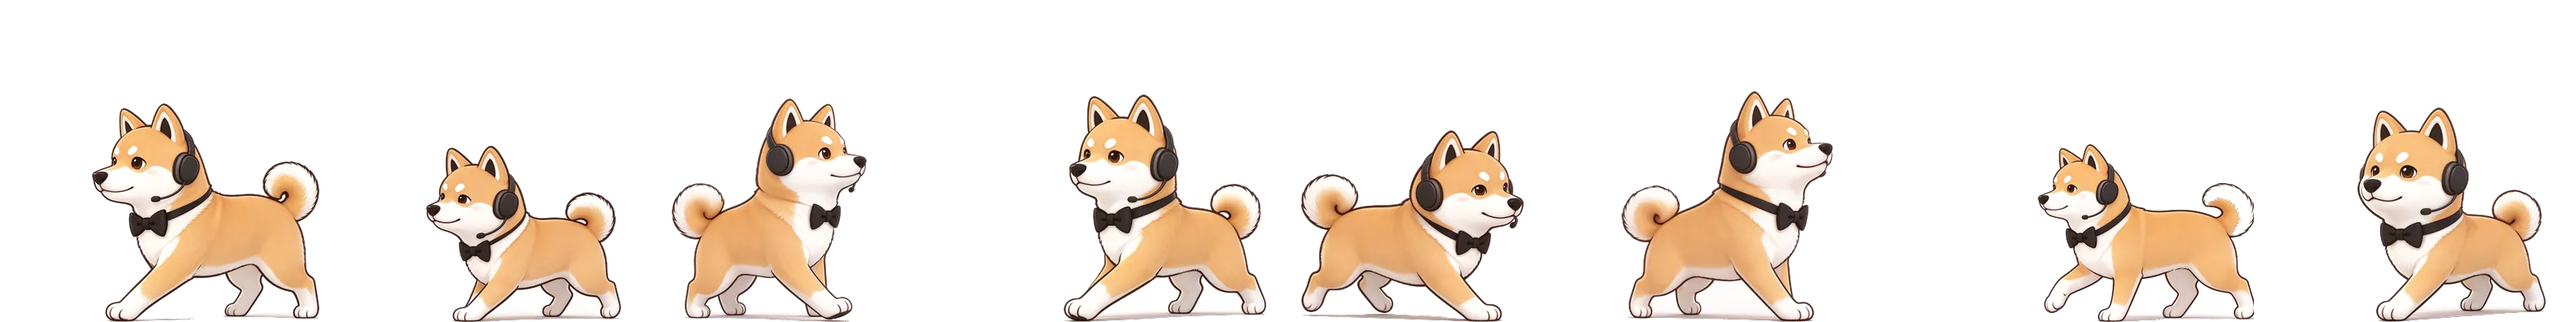
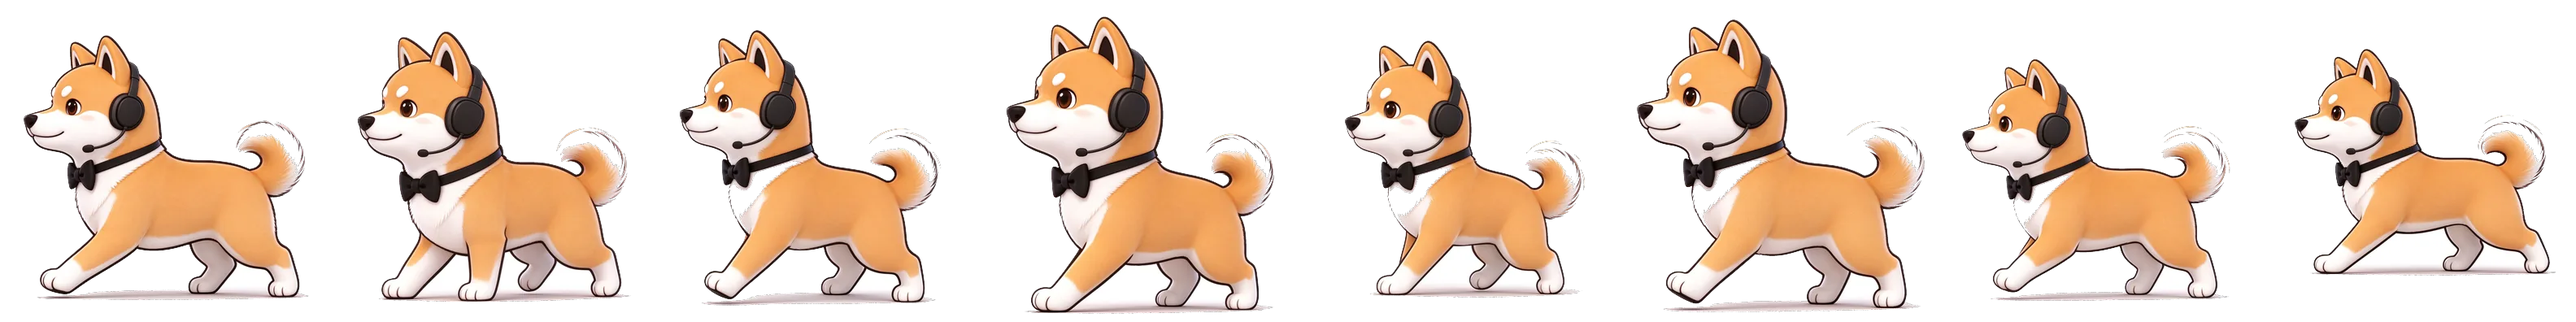
feat(pet): 桌宠资源换成新版关键帧（体型一致）
下载目录里 ~/Downloads/柴犬关键帧 是重绘过的同一只柴犬（3D 质感、白底、
投影），体型已经调过。这批是**逐帧 PNG（2026×2069，JPEG 编码）**，
而桌宠要的是 396×396 透明底 webp，循环还得拼成横向 sprite 条 —— 所以
加了 scripts/build_pet_assets.py 做规范化，以后换图重跑一次即可。

## 关键点：绝对不能按帧裁剪
上次「体型忽大忽小」就是逐帧按内容裁剪/缩放导致的。脚本里所有帧走
**同一个** _fit()：统一比例缩放 + 居中补透明边，不裁剪、不按帧拉满。
这样源图里调好的相对体型被原样保留。

## 抠图用洪水填充，不用全图去白
柴犬胸口和爪子本身是白的，全图去白会把胸口打穿。改成从四边洪水填充，
只吃掉与边缘连通的背景，白色毛发保留。深/浅底都验过，没有白边。

## 资源对照
循环（各 8 帧，原来 idle 只有 3 帧）：
  loop-idle-breathe ← 坐立待机循环     loop-walk ← 走路循环
  loop-run          ← 跑步循环         loop-tail ← 尾巴摇摆循环
单帧：
  clap-1/2 ← 01_开心拍掌 / 10_下班开心     alert-1/2 ← 04_惊讶抬爪 / 14_跳跃欢呼
  error-1/2 ← 09_上班崩溃 / 03_生气叉腰    phone-1 ← 11_摸鱼看手机
  stretch-1 ← 15_伸懒腰                    tilt-1 ← 16_歪头疑惑
  yawn-1 ← 36_打哈欠                       sleep-1 ← 待机循环 idle_05_全闭眼

顺手删掉未被引用、仍是旧画风的 loop-idle-blink / loop-idle-tilt。

## 验证
- 4 条循环均 3168×396 = 8 帧；idle 的 frames 3→8，命中已有 keyframe pet-strip-8
- 逐帧内容高度极差：idle 5.2%、tail 6.7%（姿势本身造成），walk/run 的波动来自
  腾空/下压姿势，并排看躯干与头部尺寸稳定
- dev server 实测返回新图（112152 bytes, 8 帧）；tsc 0；build ok
- vitest 133 passed + 1 既有失败

diff --git a/frontend/src/components/pet/PetWindow.tsx b/frontend/src/components/pet/PetWindow.tsx
@@ -45,7 +45,8 @@ const SLEEP_AFTER_MS = 3 * 60 * 1000;
 const STAGE = 132;
 
 const LOOPS = {
-  breathe: { kind: "sprite", src: breatheSrc, frames: 3, ms: 1900 } as Clip,
+  // idle 用待机循环的 8 帧（呼吸下沉→回正→半闭眼→全闭眼→睁眼→歪头）
+  breathe: { kind: "sprite", src: breatheSrc, frames: 8, ms: 2400 } as Clip,
   walk: { kind: "sprite", src: walkSrc, frames: 8, ms: 900 } as Clip,
   run: { kind: "sprite", src: runSrc, frames: 8, ms: 800 } as Clip,
   tail: { kind: "sprite", src: tailSrc, frames: 8, ms: 900 } as Clip,

diff --git a/scripts/build_pet_assets.py b/scripts/build_pet_assets.py
@@ -1,0 +1,167 @@
+"""把「柴犬关键帧」原始图打包成桌宠资源（frontend/src/assets/pet）。
+
+用法::
+
+    .venv/bin/python scripts/build_pet_assets.py --src ~/Downloads/柴犬关键帧
+
+为什么要这个脚本（而不是手工导图）：
+1. 原图是 2026×2069 的白底 JPEG，桌宠要的是 **396×396 透明底 webp**；
+2. 循环动画在代码里是**横向 sprite 条**（8 帧拼一张），不是逐帧图片；
+3. 最关键的一条：**所有帧必须用同一个缩放比例**。逐帧按内容裁剪/缩放会让
+   宠物体型忽大忽小 —— 这正是上次「体型不连贯」的成因，所以这里只做
+   全图统一缩放 + 居中补边，绝不按帧裁剪。
+
+白底抠图用「从四边洪水填充」而不是全图去白：柴犬胸口/爪子本身是白的，
+全图去白会把胸口打穿。洪水填充只吃掉与边缘连通的背景。
+"""
+
+from __future__ import annotations
+
+import argparse
+from collections import deque
+from pathlib import Path
+
+from PIL import Image
+
+#: 单帧边长（与 PetWindow 的 STAGE 比例一致：132px 舞台，3x 资源）
+FRAME = 396
+#: 抠图容差：白底与浅灰投影都算背景
+WHITE_TOLERANCE = 26
+#: webp 质量
+QUALITY = 82
+
+# 循环：目录名 → (输出文件名, 帧数)
+LOOPS = {
+    "坐立待机循环": ("loop-idle-breathe", 8),
+    "走路循环": ("loop-walk", 8),
+    "跑步循环": ("loop-run", 8),
+    "尾巴摇摆循环": ("loop-tail", 8),
+}
+
+# 单帧：源文件名前缀 → 输出文件名
+STILLS = {
+    "01_开心拍掌": "clap-1",
+    "10_下班开心": "clap-2",
+    "04_惊讶抬爪": "alert-1",
+    "14_跳跃欢呼": "alert-2",
+    "09_上班崩溃": "error-1",
+    "03_生气叉腰": "error-2",
+    "11_摸鱼看手机": "phone-1",
+    "15_伸懒腰": "stretch-1",
+    "16_歪头疑惑": "tilt-1",
+    "36_打哈欠": "yawn-1",
+}
+
+#: 睡觉用待机循环里的闭眼帧（比单独一张更自然）
+SLEEP_SOURCE = ("坐立待机循环", "idle_05_全闭眼", "sleep-1")
+
+
+def _is_whiteish(px: tuple[int, int, int]) -> bool:
+    r, g, b = px[:3]
+    return r >= 255 - WHITE_TOLERANCE and g >= 255 - WHITE_TOLERANCE and b >= 255 - WHITE_TOLERANCE
+
+
+def _transparent(img: Image.Image) -> Image.Image:
+    """白底 → 透明：从四边洪水填充，保留被轮廓包住的白色（胸口/爪子）。"""
+    rgb = img.convert("RGB")
+    w, h = rgb.size
+    pixels = rgb.load()
+    alpha = Image.new("L", (w, h), 255)
+    ap = alpha.load()
+
+    seen = bytearray(w * h)
+    queue: deque[tuple[int, int]] = deque()
+
+    def push(x: int, y: int) -> None:
+        if 0 <= x < w and 0 <= y < h and not seen[y * w + x]:
+            seen[y * w + x] = 1
+            queue.append((x, y))
+
+    for x in range(w):
+        push(x, 0)
+        push(x, h - 1)
+    for y in range(h):
+        push(0, y)
+        push(w - 1, y)
+
+    while queue:
+        x, y = queue.popleft()
+        if not _is_whiteish(pixels[x, y]):
+            continue
+        ap[x, y] = 0
+        push(x + 1, y)
+        push(x - 1, y)
+        push(x, y + 1)
+        push(x, y - 1)
+
+    out = rgb.convert("RGBA")
+    out.putalpha(alpha)
+    return out
+
+
+def _fit(img: Image.Image, size: int = FRAME) -> Image.Image:
+    """统一比例缩放到 size 方框，居中补透明边。
+
+    **所有帧都走这同一个函数**，不按内容裁剪 —— 体型一致全靠这条。
+    """
+    ratio = min(size / img.width, size / img.height)
+    scaled = img.resize(
+        (max(1, round(img.width * ratio)), max(1, round(img.height * ratio))),
+        Image.LANCZOS,
+    )
+    canvas = Image.new("RGBA", (size, size), (0, 0, 0, 0))
+    canvas.paste(scaled, ((size - scaled.width) // 2, (size - scaled.height) // 2), scaled)
+    return canvas
+
+
+def _strip(frames: list[Image.Image], out: Path) -> None:
+    sheet = Image.new("RGBA", (FRAME * len(frames), FRAME), (0, 0, 0, 0))
+    for i, frame in enumerate(frames):
+        sheet.paste(frame, (i * FRAME, 0), frame)
+    sheet.save(out, "WEBP", quality=QUALITY, method=6)
+
+
+def _frame_files(folder: Path, expected: int) -> list[Path]:
+    files = sorted(folder.glob("*.png")) or sorted(folder.glob("*.jpg"))
+    if len(files) != expected:
+        raise SystemExit(f"{folder.name}: 期望 {expected} 帧，实际 {len(files)}")
+    return files
+
+
+def main() -> None:
+    ap = argparse.ArgumentParser()
+    ap.add_argument("--src", required=True, help="柴犬关键帧 目录")
+    ap.add_argument("--out", default="frontend/src/assets/pet", help="输出目录")
+    args = ap.parse_args()
+
+    src = Path(args.src).expanduser()
+    out = Path(args.out)
+    out.mkdir(parents=True, exist_ok=True)
+
+    for folder, (name, expected) in LOOPS.items():
+        files = _frame_files(src / folder, expected)
+        frames = [_fit(_transparent(Image.open(f))) for f in files]
+        _strip(frames, out / f"{name}.webp")
+        print(f"✅ {name}.webp  ({len(frames)} 帧)")
+
+    for prefix, name in STILLS.items():
+        matches = list(src.glob(f"{prefix}*.png")) + list(src.glob(f"{prefix}*.jpg"))
+        if not matches:
+            raise SystemExit(f"找不到 {prefix}*")
+        _fit(_transparent(Image.open(matches[0]))).save(
+            out / f"{name}.webp", "WEBP", quality=QUALITY, method=6
+        )
+        print(f"✅ {name}.webp  ← {matches[0].name}")
+
+    folder, prefix, name = SLEEP_SOURCE
+    files = [f for f in _frame_files(src / folder, LOOPS[folder][1]) if f.stem.startswith(prefix)]
+    if not files:
+        raise SystemExit(f"找不到 {folder}/{prefix}")
+    _fit(_transparent(Image.open(files[0]))).save(
+        out / f"{name}.webp", "WEBP", quality=QUALITY, method=6
+    )
+    print(f"✅ {name}.webp  ← {folder}/{files[0].name}")
+
+
+if __name__ == "__main__":
+    main()
